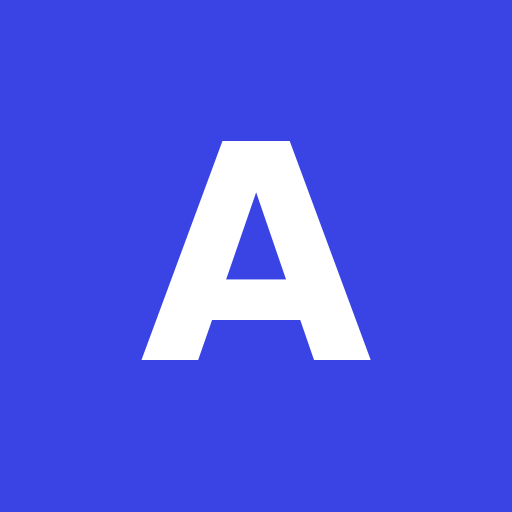
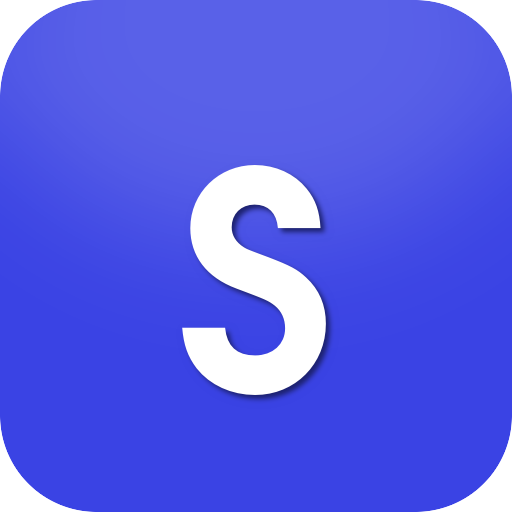
feat: rename project from Agentic OS to Solvo and update related assets

diff --git a/features/landing/LandingScreen.tsx b/features/landing/LandingScreen.tsx
@@ -24,7 +24,7 @@ export function LandingScreen() {
   return (
     <div className={styles.page}>
       <nav className={styles.nav}>
-        <div className={styles.brand}>Agentic OS</div>
+        <div className={styles.brand}>Solvo</div>
         <div className={styles.navRight}>
           <a href="#how" className={styles.navLink}>
             How it works
@@ -43,7 +43,7 @@ export function LandingScreen() {
         <div className={styles.heroLine}>From job post to merged PR:</div>
         <div className={[styles.heroLine, styles.heroLineSignal].join(" ")}>you approve every step.</div>
         <div className={styles.heroBody}>
-          Agentic OS researches clients, drafts proposals in your voice, captures meetings
+          Solvo researches clients, drafts proposals in your voice, captures meetings
           first-hand, converts them to tickets, and runs the agent, with a human gate at every
           meaningful decision.
         </div>
@@ -215,7 +215,7 @@ export function LandingScreen() {
       </div>
 
       <div className={styles.footer}>
-        <span className={styles.footerBrand}>Agentic OS</span>
+        <span className={styles.footerBrand}>Solvo</span>
       </div>
 
       {toast && <div className={styles.toast}>{toast}</div>}

diff --git a/extension/src/mock/proposal.ts b/extension/src/mock/proposal.ts
@@ -29,7 +29,7 @@ export const PROPOSAL_SCENARIOS: Record<"inVoice" | "surveyFallback", ProposalSc
     rateNote: "Consider anchoring at $75–$90/hr based on this client's history.",
     rateSource: "from client avg rate paid",
     gateText: "Review before sending, you paste this into Upwork manually.",
-    primaryButtonSub: "Copies to clipboard · marks proposal as Sent in Agentic OS",
+    primaryButtonSub: "Copies to clipboard · marks proposal as Sent in Solvo",
     secondaryLabels: ["Regenerate", "Start over"],
   },
   surveyFallback: {
@@ -47,7 +47,7 @@ export const PROPOSAL_SCENARIOS: Record<"inVoice" | "surveyFallback", ProposalSc
     rateNote: "Consider anchoring at $60–$80/hr based on the posted budget.",
     rateSource: "from posted budget only · no client history",
     gateText: "Review carefully, this draft reflects preferences, not your past writing. Edit before sending.",
-    primaryButtonSub: "Copies to clipboard · marks proposal as Sent in Agentic OS",
+    primaryButtonSub: "Copies to clipboard · marks proposal as Sent in Solvo",
     secondaryLabels: ["Regenerate", "Edit preferences"],
   },
 };

diff --git a/features/meetings/PreMeetingBriefingScreen.tsx b/features/meetings/PreMeetingBriefingScreen.tsx
@@ -145,7 +145,7 @@ export function PreMeetingBriefingScreen({ meeting, client, contacts, pastPropos
             <div className={styles.emailSubjectNote}>Subject: &ldquo;Briefing: {meeting.title} · {formatDateTime(meeting.starts_at)}&rdquo;</div>
             <div className={styles.emailShell}>
               <div className={styles.emailHeader}>
-                <span className={styles.emailBrand}>Agentic OS</span>
+                <span className={styles.emailBrand}>Solvo</span>
               </div>
               <div className={styles.emailAccent} />
               <div className={styles.emailBody}>
@@ -201,7 +201,7 @@ export function PreMeetingBriefingScreen({ meeting, client, contacts, pastPropos
               </div>
               <div className={styles.emailFooter}>
                 <span className={styles.emailFooterText}>
-                  Agentic OS · Sent via Nodemailer · Manage notifications in Settings
+                  Solvo · Sent via Nodemailer · Manage notifications in Settings
                 </span>
               </div>
             </div>

diff --git a/extension/src/screens/SignedOutScreen.tsx b/extension/src/screens/SignedOutScreen.tsx
@@ -30,7 +30,7 @@ export function SignedOutScreen({ onSubmitToken }: SignedOutScreenProps) {
         <rect x="5" y="11" width="14" height="9" rx="2" />
         <path d="M8 11V7a4 4 0 1 1 8 0v4" />
       </svg>
-      <div className={styles.utilityTitle}>Sign in to Agentic OS</div>
+      <div className={styles.utilityTitle}>Sign in to Solvo</div>
       <p>Connect your account to analyze clients, draft proposals, and track your win rate.</p>
       <div style={{ height: 8 }} />
       {onSubmitToken ? (
@@ -71,7 +71,7 @@ export function SignedOutScreen({ onSubmitToken }: SignedOutScreenProps) {
           </button>
           {error && <div style={{ fontSize: 12, color: "var(--risk)" }}>{error}</div>}
           <div style={{ fontSize: 12, color: "var(--ink-4)" }}>
-            Get your token from Agentic OS &rarr; Settings &rarr; Integrations &rarr; Browser extension.
+            Get your token from Solvo &rarr; Settings &rarr; Integrations &rarr; Browser extension.
           </div>
         </div>
       ) : (

diff --git a/features/onboarding/ConnectIntegrationsScreen.tsx b/features/onboarding/ConnectIntegrationsScreen.tsx
@@ -41,7 +41,7 @@ export function ConnectIntegrationsScreen() {
                 <div>
                   <div className={styles.title}>GitHub</div>
                   <div className={styles.desc}>
-                    The agent opens PRs under your account. Commits are attributed to Agentic OS Agent.
+                    The agent opens PRs under your account. Commits are attributed to Solvo Agent.
                   </div>
                   <div className={styles.subnote}>Uses OAuth, PRs appear under your GitHub account.</div>
                 </div>

diff --git a/lib/skribby.ts b/lib/skribby.ts
@@ -32,7 +32,7 @@ export async function createSkribbyBot(input: CreateBotInput): Promise<SkribbyBo
     body: JSON.stringify({
       meeting_url: input.meetingUrl,
       service: detectService(input.meetingUrl),
-      bot_name: input.botName ?? "Agentic OS Notetaker",
+      bot_name: input.botName ?? "Solvo Notetaker",
       transcription_model: "groq/whisper-large-v3-turbo",
       webhook_url: `${APP_URL}/api/webhooks/skribby`,
     }),

diff --git a/inngest/client.ts b/inngest/client.ts
@@ -1,6 +1,6 @@
 import { Inngest } from "inngest";
 
-export const inngest = new Inngest({ id: "agentic-os", isDev: process.env.NODE_ENV !== "production" });
+export const inngest = new Inngest({ id: "solvo", isDev: process.env.NODE_ENV !== "production" });
 
 /** transcript is only set for manual_paste (typed at creation time); bot_skribby fetches it via Skribby's API inside the function. */
 export interface MeetingReadyForProcessing {

diff --git a/extension/src/components/PopupShell.tsx b/extension/src/components/PopupShell.tsx
@@ -21,7 +21,7 @@ export function PopupShell({ jobTitle, cacheLabel, activeTab, onTabChange, child
   return (
     <div className={styles.panel}>
       <div className={styles.headerTop}>
-        <div className={styles.logo}>Agentic OS</div>
+        <div className={styles.logo}>Solvo</div>
         <div className={styles.jobTitle} style={cacheLabel ? undefined : { color: "var(--ink-4)" }}>
           {jobTitle}
         </div>

diff --git a/components/layout/OnboardingHeader.tsx b/components/layout/OnboardingHeader.tsx
@@ -10,7 +10,7 @@ interface OnboardingHeaderProps {
 export function OnboardingHeader({ current }: OnboardingHeaderProps) {
   return (
     <div className={styles.header}>
-      <div className={styles.brand}>Agentic OS</div>
+      <div className={styles.brand}>Solvo</div>
       <div className={styles.steps}>
         {STEPS.map((label, i) => (
           <div key={label} style={{ display: "flex", alignItems: "center" }}>

diff --git a/features/settings/IntegrationsScreen.tsx b/features/settings/IntegrationsScreen.tsx
@@ -149,7 +149,7 @@ export function IntegrationsScreen({
         </div>
         <div className={styles.subNote}>
           OAuth (scopes: repo, workflow) · PRs opened under your GitHub account · commits
-          attributed to Agentic OS Agent &lt;agent@agentcos.dev&gt;
+          attributed to Solvo Agent &lt;agent@solvo.dev&gt;
         </div>
 
         <div className={styles.divider} />

diff --git a/inngest/functions/agent-run.ts b/inngest/functions/agent-run.ts
@@ -181,7 +181,7 @@ export const agentRun = inngest.createFunction(
           head: branch,
           base: repoInfo.defaultBranch,
           title: ticket.title,
-          body: `${plan.summary}\n\nOpened by Agentic OS Agent. Attempt ${attempt} of ${MAX_ATTEMPTS}.`,
+          body: `${plan.summary}\n\nOpened by Solvo Agent. Attempt ${attempt} of ${MAX_ATTEMPTS}.`,
         })
       );
 

diff --git a/lib/mail.ts b/lib/mail.ts
@@ -21,7 +21,7 @@ export interface SendEmailInput {
 
 export async function sendEmail(input: SendEmailInput): Promise<void> {
   await transporter.sendMail({
-    from: process.env.SMTP_FROM ?? "Agentic OS <notifications@agentcos.dev>",
+    from: process.env.SMTP_FROM ?? "Solvo <notifications@solvo.dev>",
     to: input.to,
     subject: input.subject,
     html: input.html,
